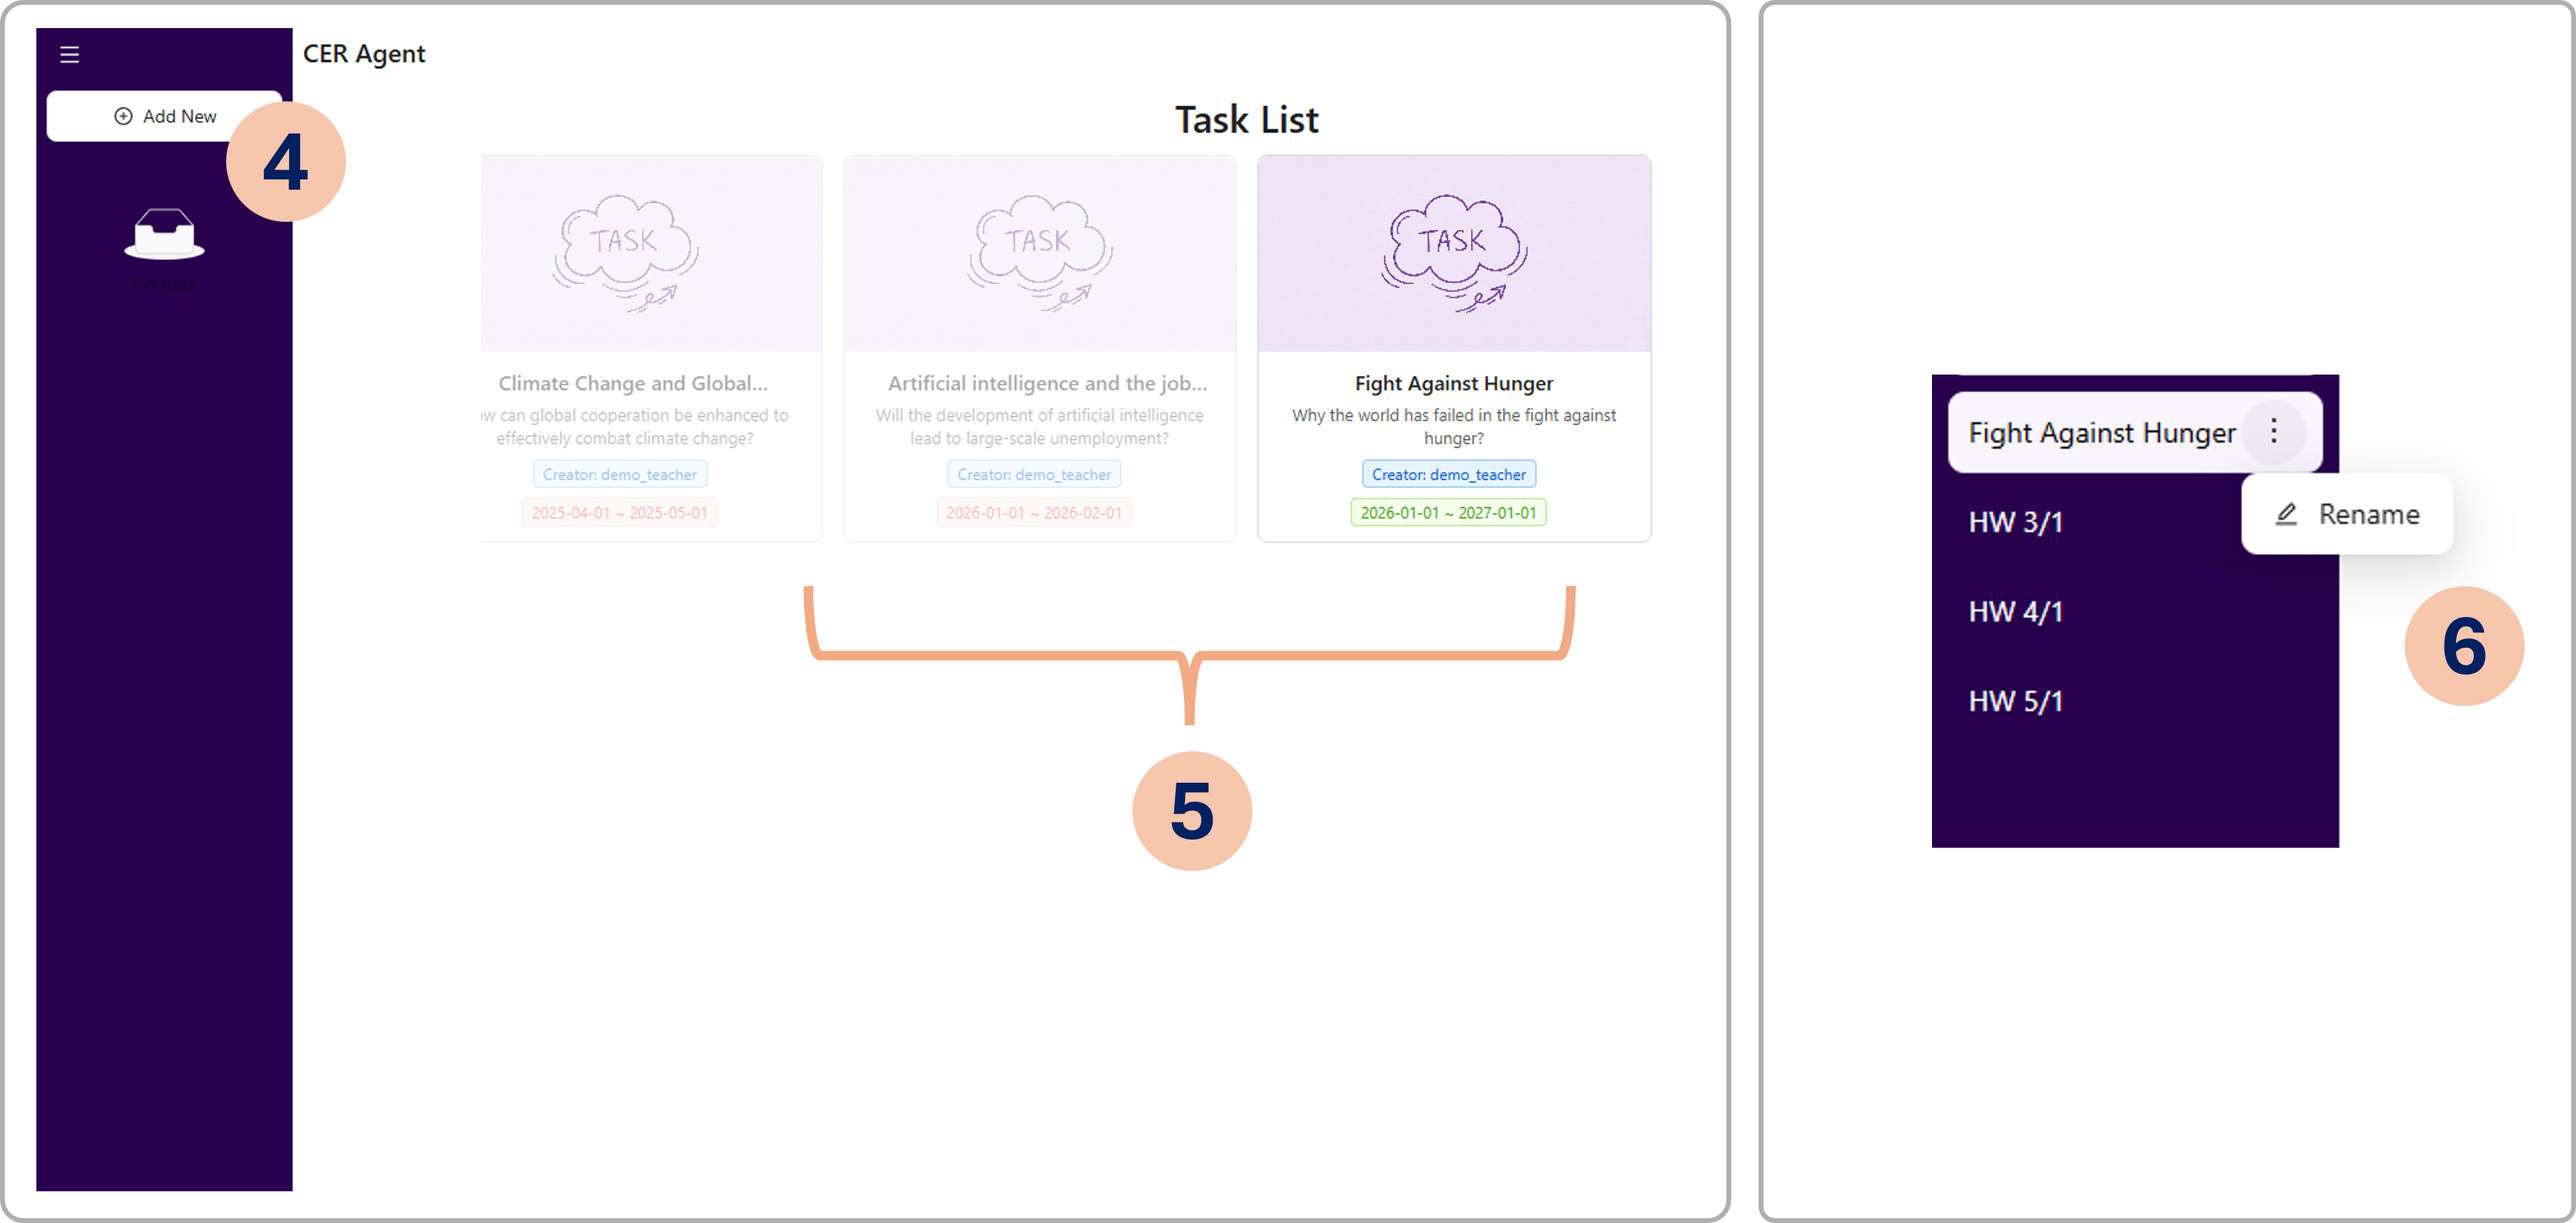
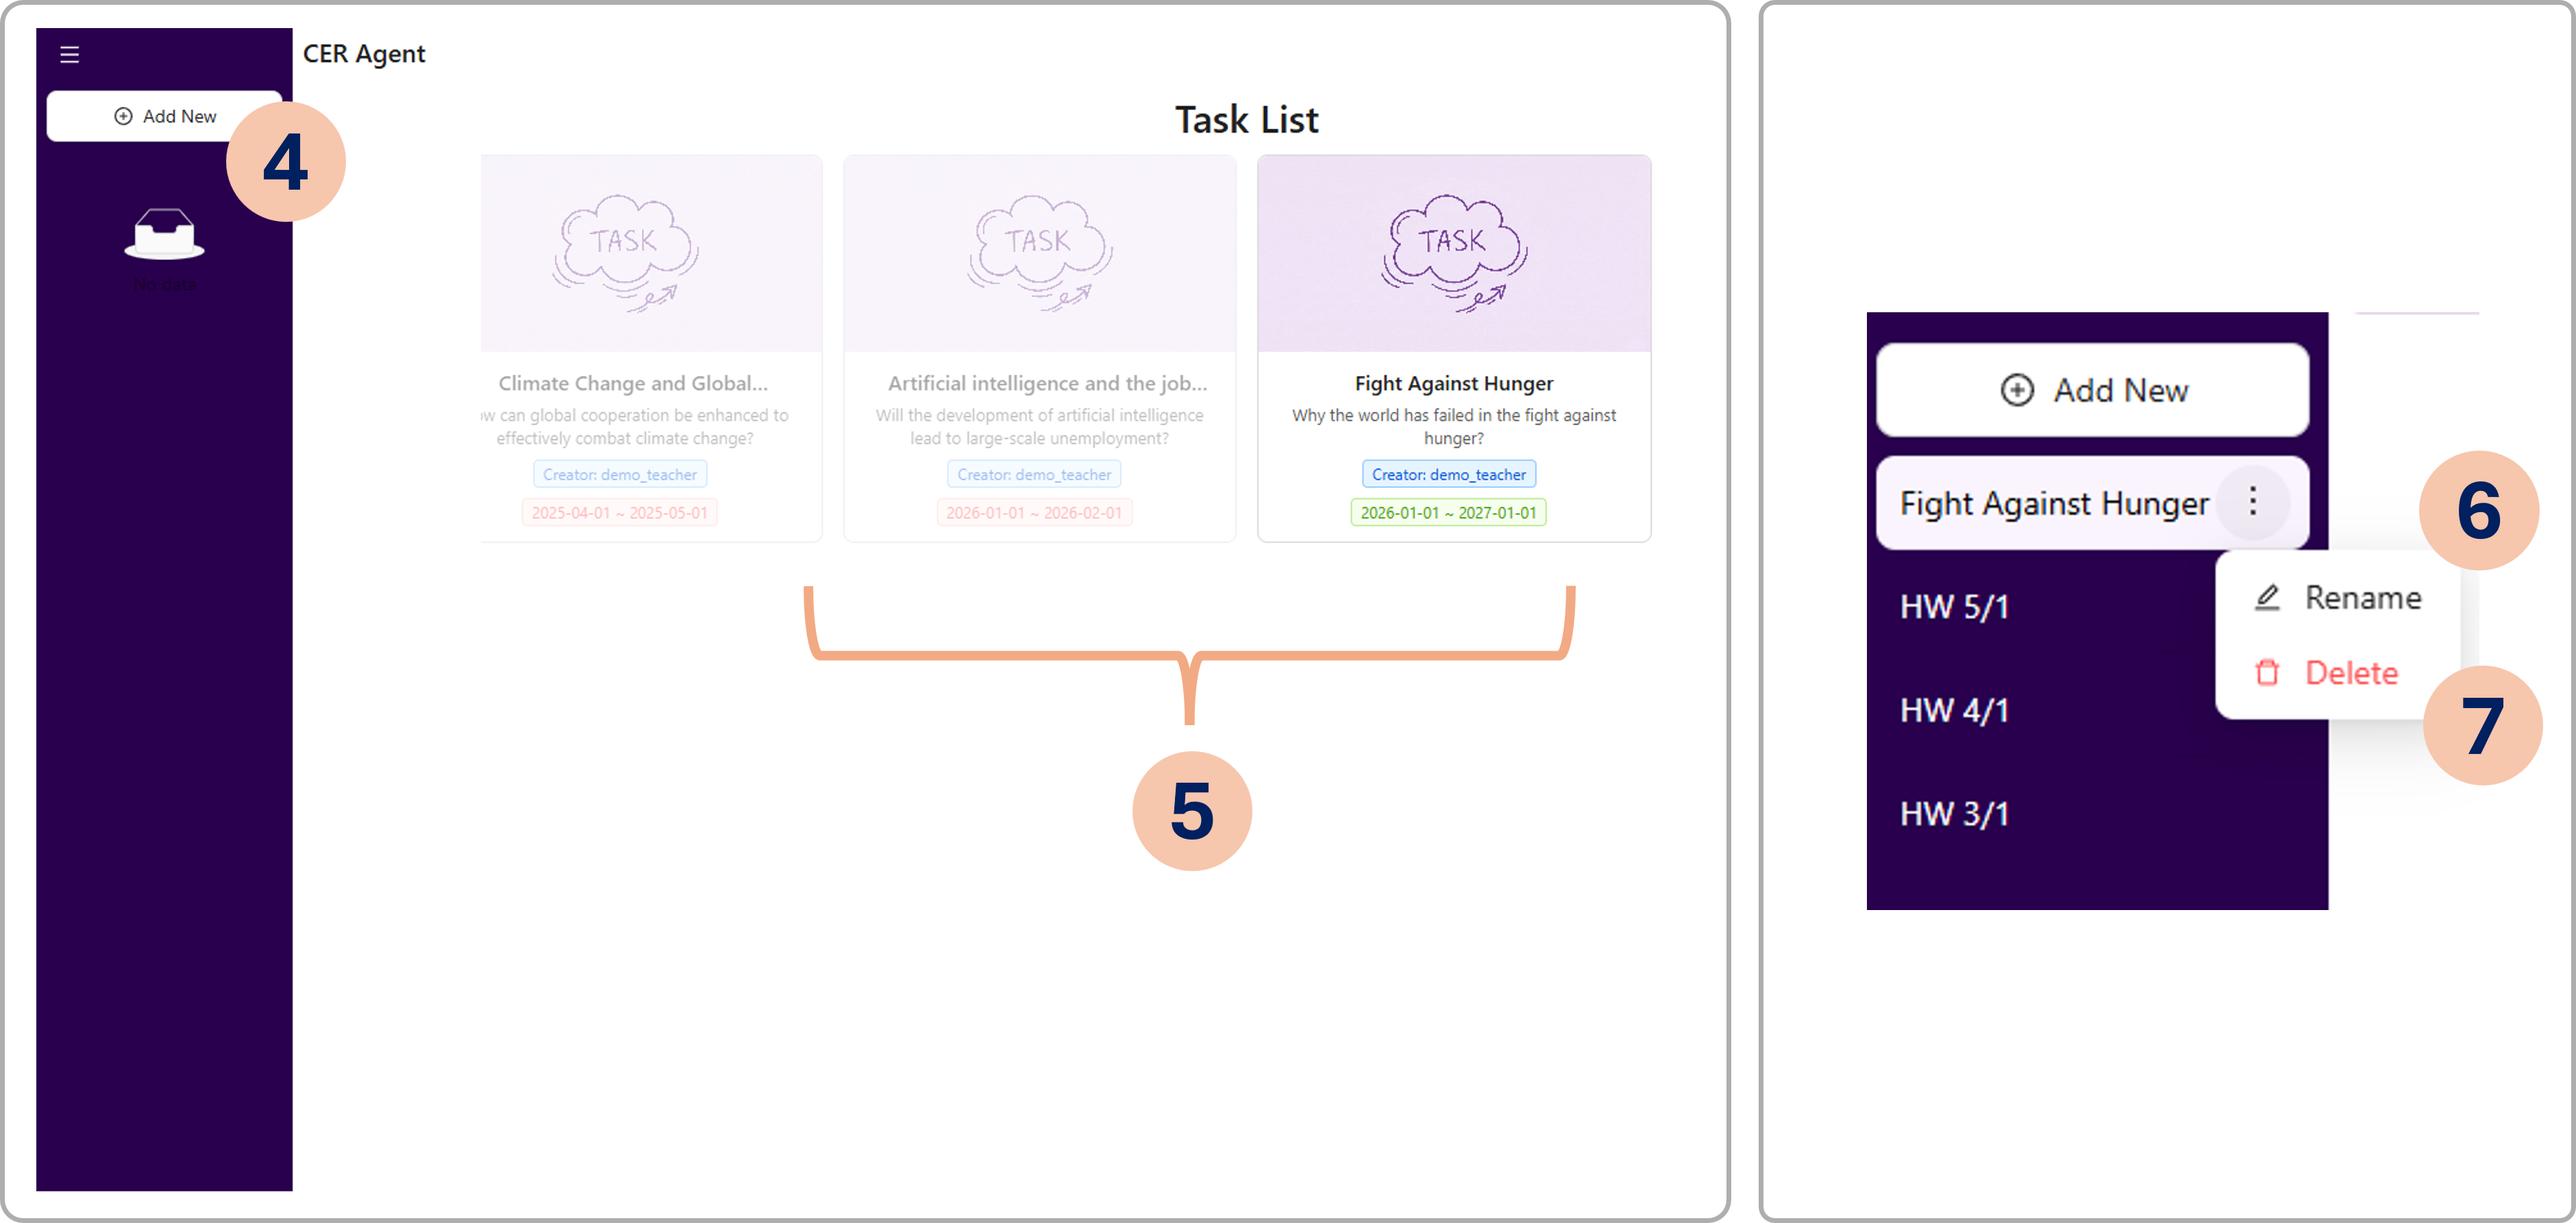
feat: 新增刪除 practice 的教學

Changed region(s): [[0.7157, 0.2464, 0.9957, 0.7699]]

diff --git a/frontend/src/features/howToUse/Practice.jsx b/frontend/src/features/howToUse/Practice.jsx
@@ -76,6 +76,17 @@ export const Practice = () => (
                         </ul>
                     </div>
                 </Paragraph>
+                <Title level={4}>Delete Practice</Title>
+                <Paragraph style={PARAGRAPH_STYLE}>
+                    <div style={{ marginLeft: '10px' }}>
+                        <ul>
+                            <li>
+                                Hover over the Practice, click More (...), and select "Delete" to delete your Practice.
+                                (<StepBadge number="7" />)
+                            </li>
+                        </ul>
+                    </div>
+                </Paragraph>
             </Col>
             <Col span={12} style={{ display: 'flex', justifyContent: 'center', alignItems: 'center' }}>
                 <Image src={Practice2Image} alt="Practice 2" style={{ maxWidth: '100%', height: 'auto' }} />
